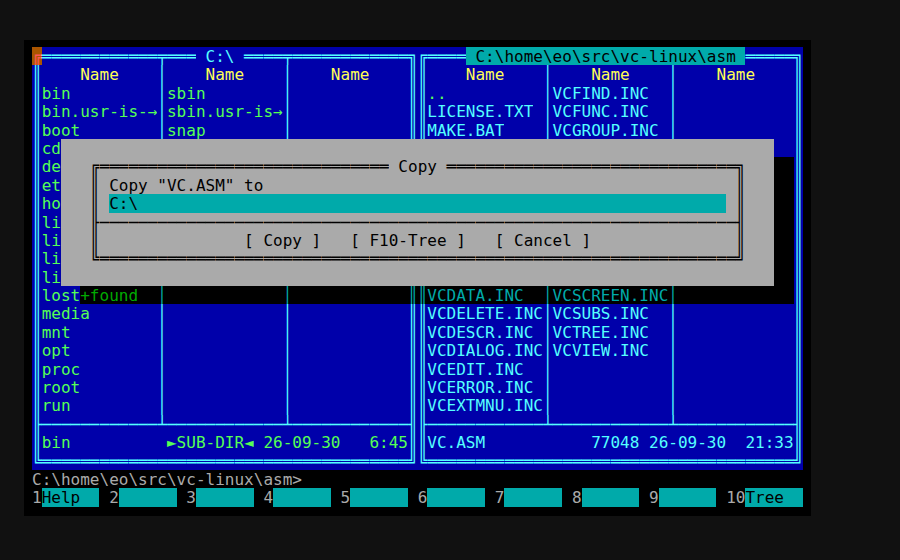
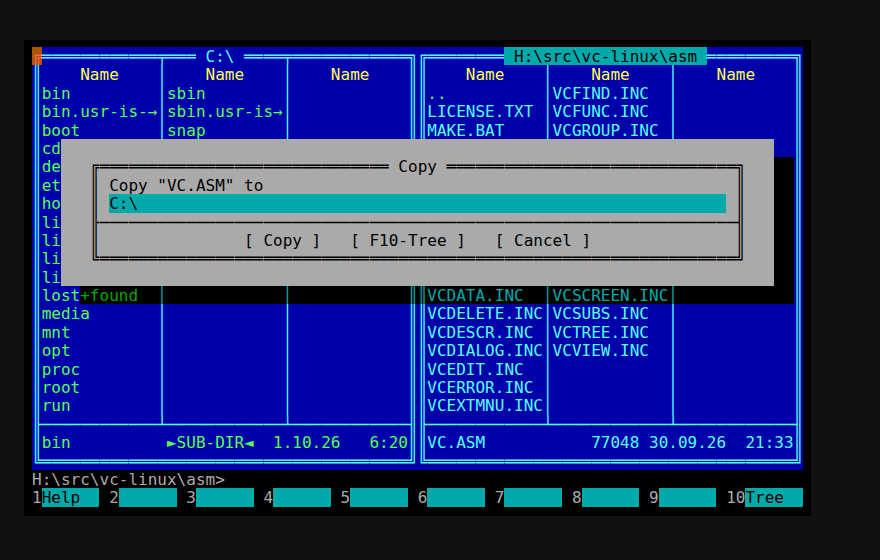
docs: screenshot and social card from the H: build

diff --git a/tools/snapshot.py b/tools/snapshot.py
@@ -28,7 +28,8 @@ def main() -> None:
     keys = sys.argv[3:]
     os.environ["COLORTERM"] = "truecolor"
     with tempfile.TemporaryDirectory(dir=ROOT / "build") as home:
-        s = VcSession(where, Path(home))
+        # settings in a throwaway dir, but the real $HOME, so H: is your home
+        s = VcSession(where, Path(home), extra_env={"HOME": os.environ.get("HOME", home)})
         try:
             s.wait_for("10Quit", timeout=15)
             for k in keys:
